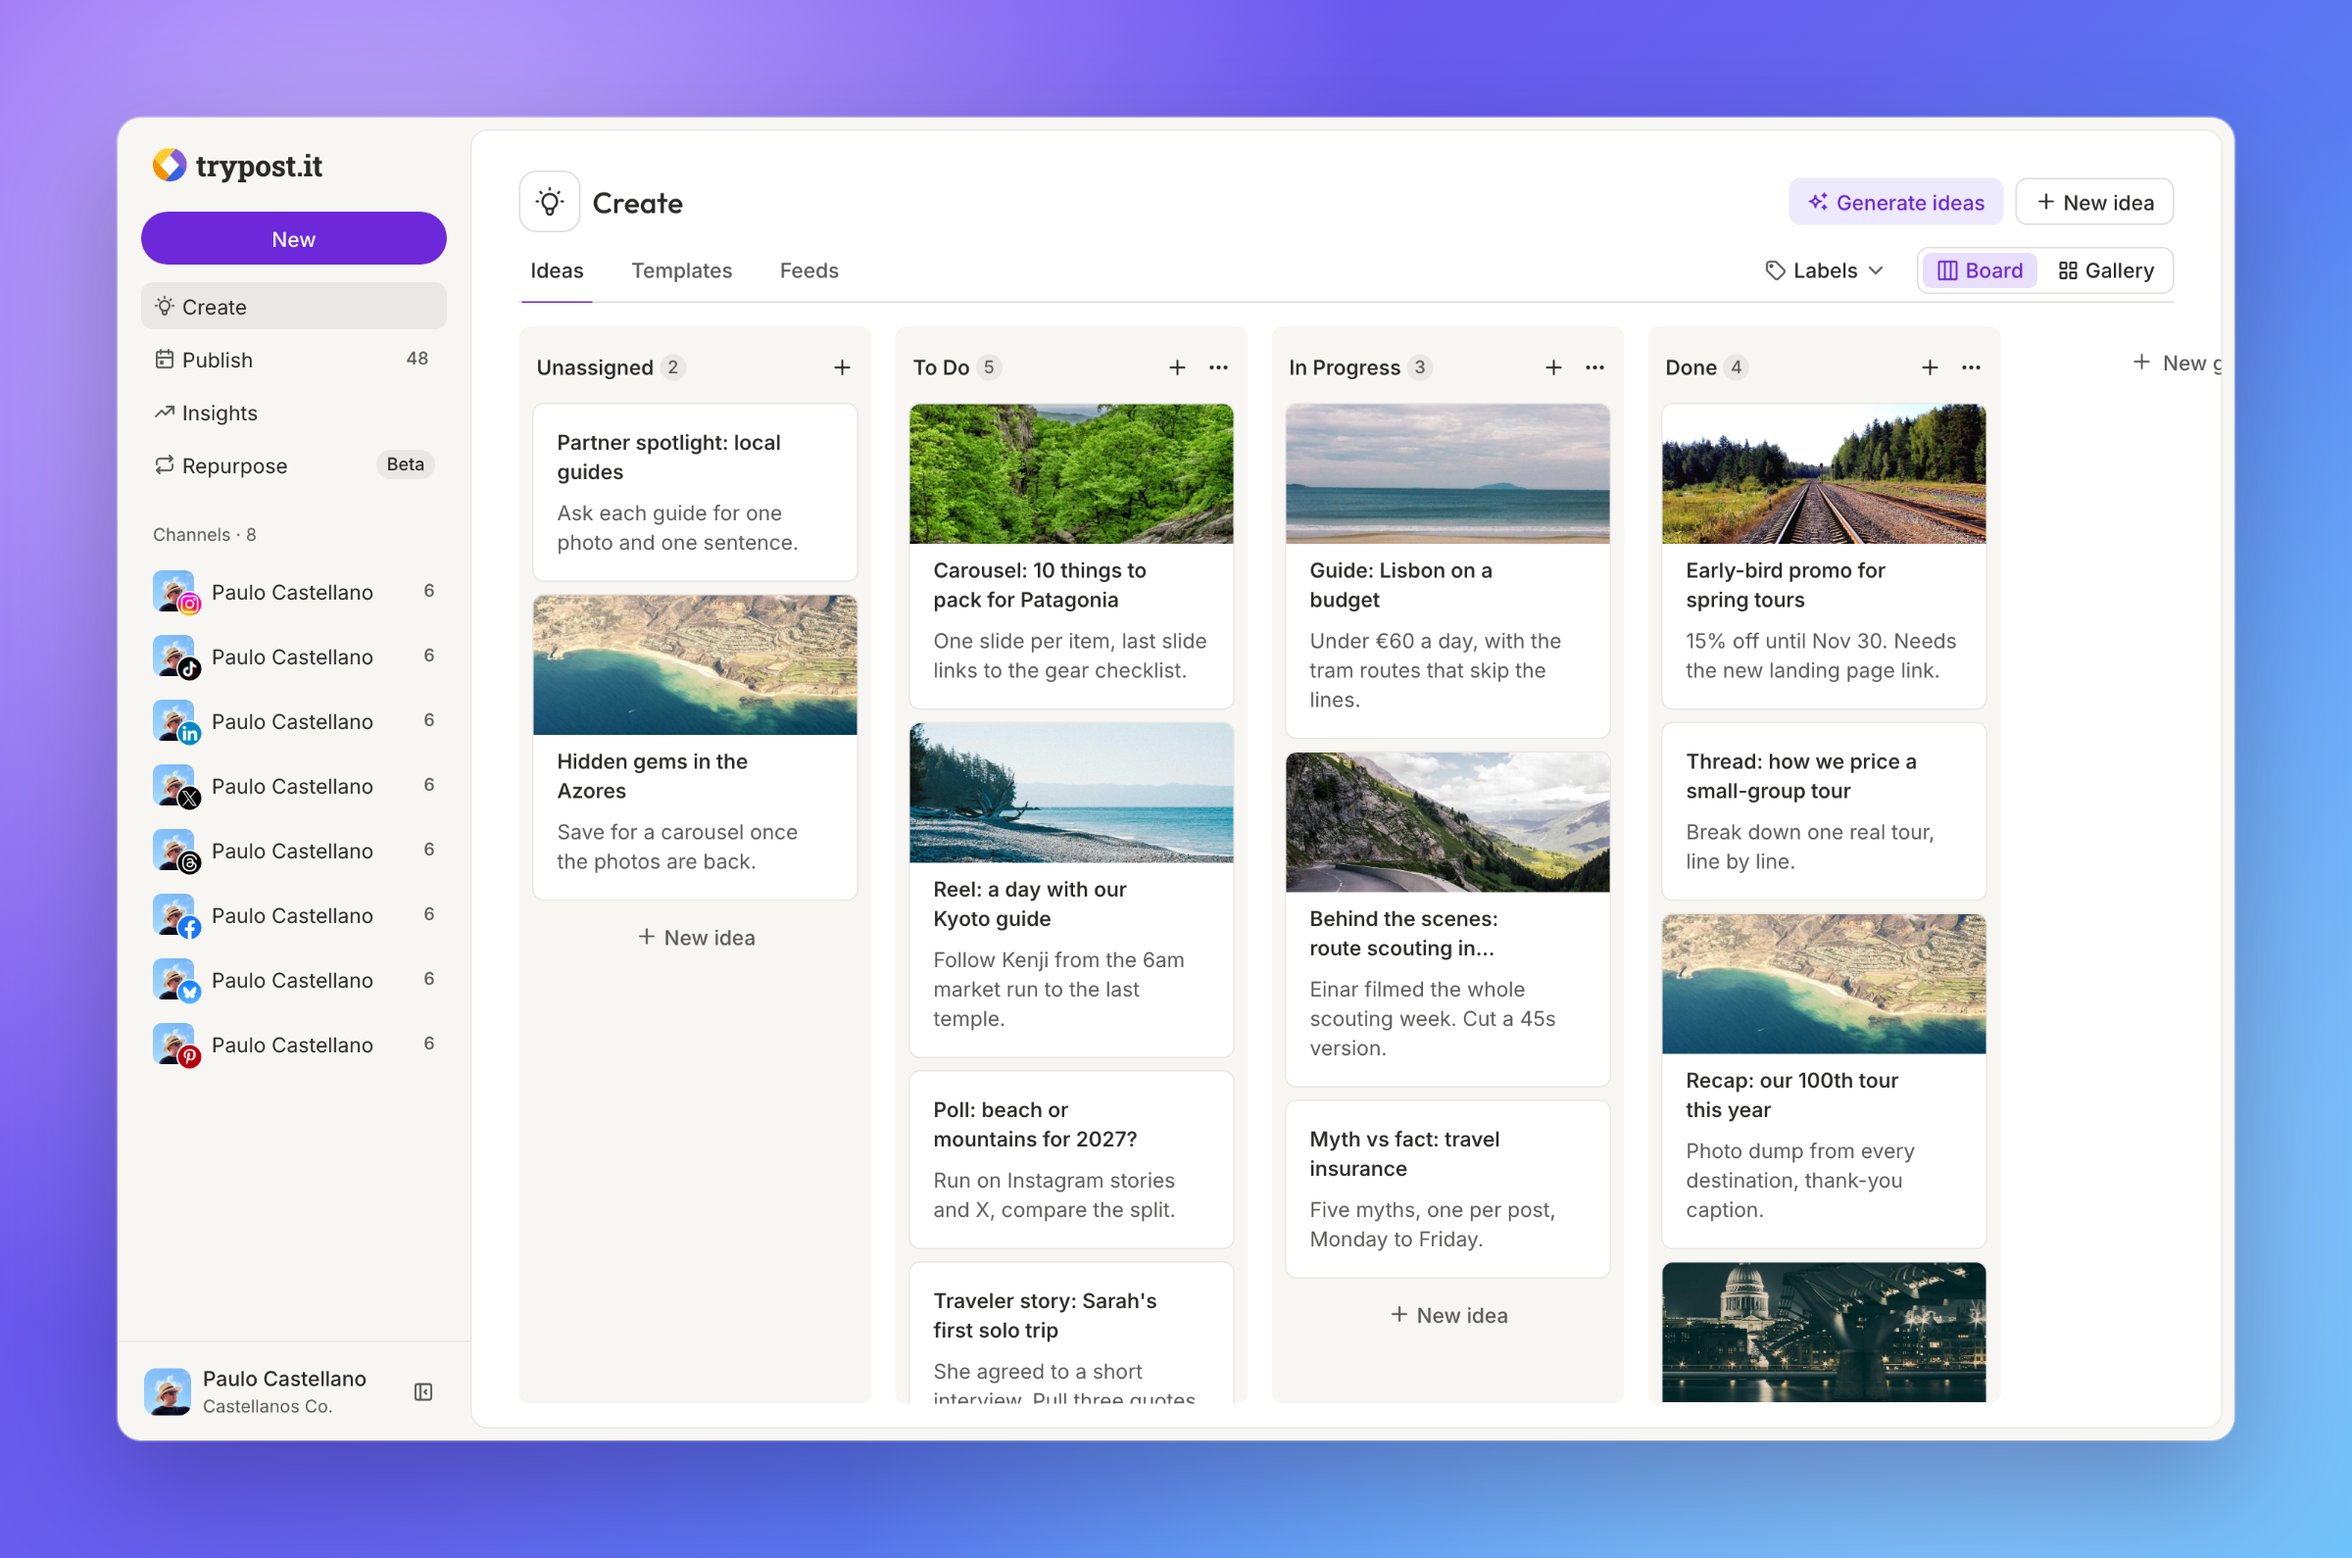
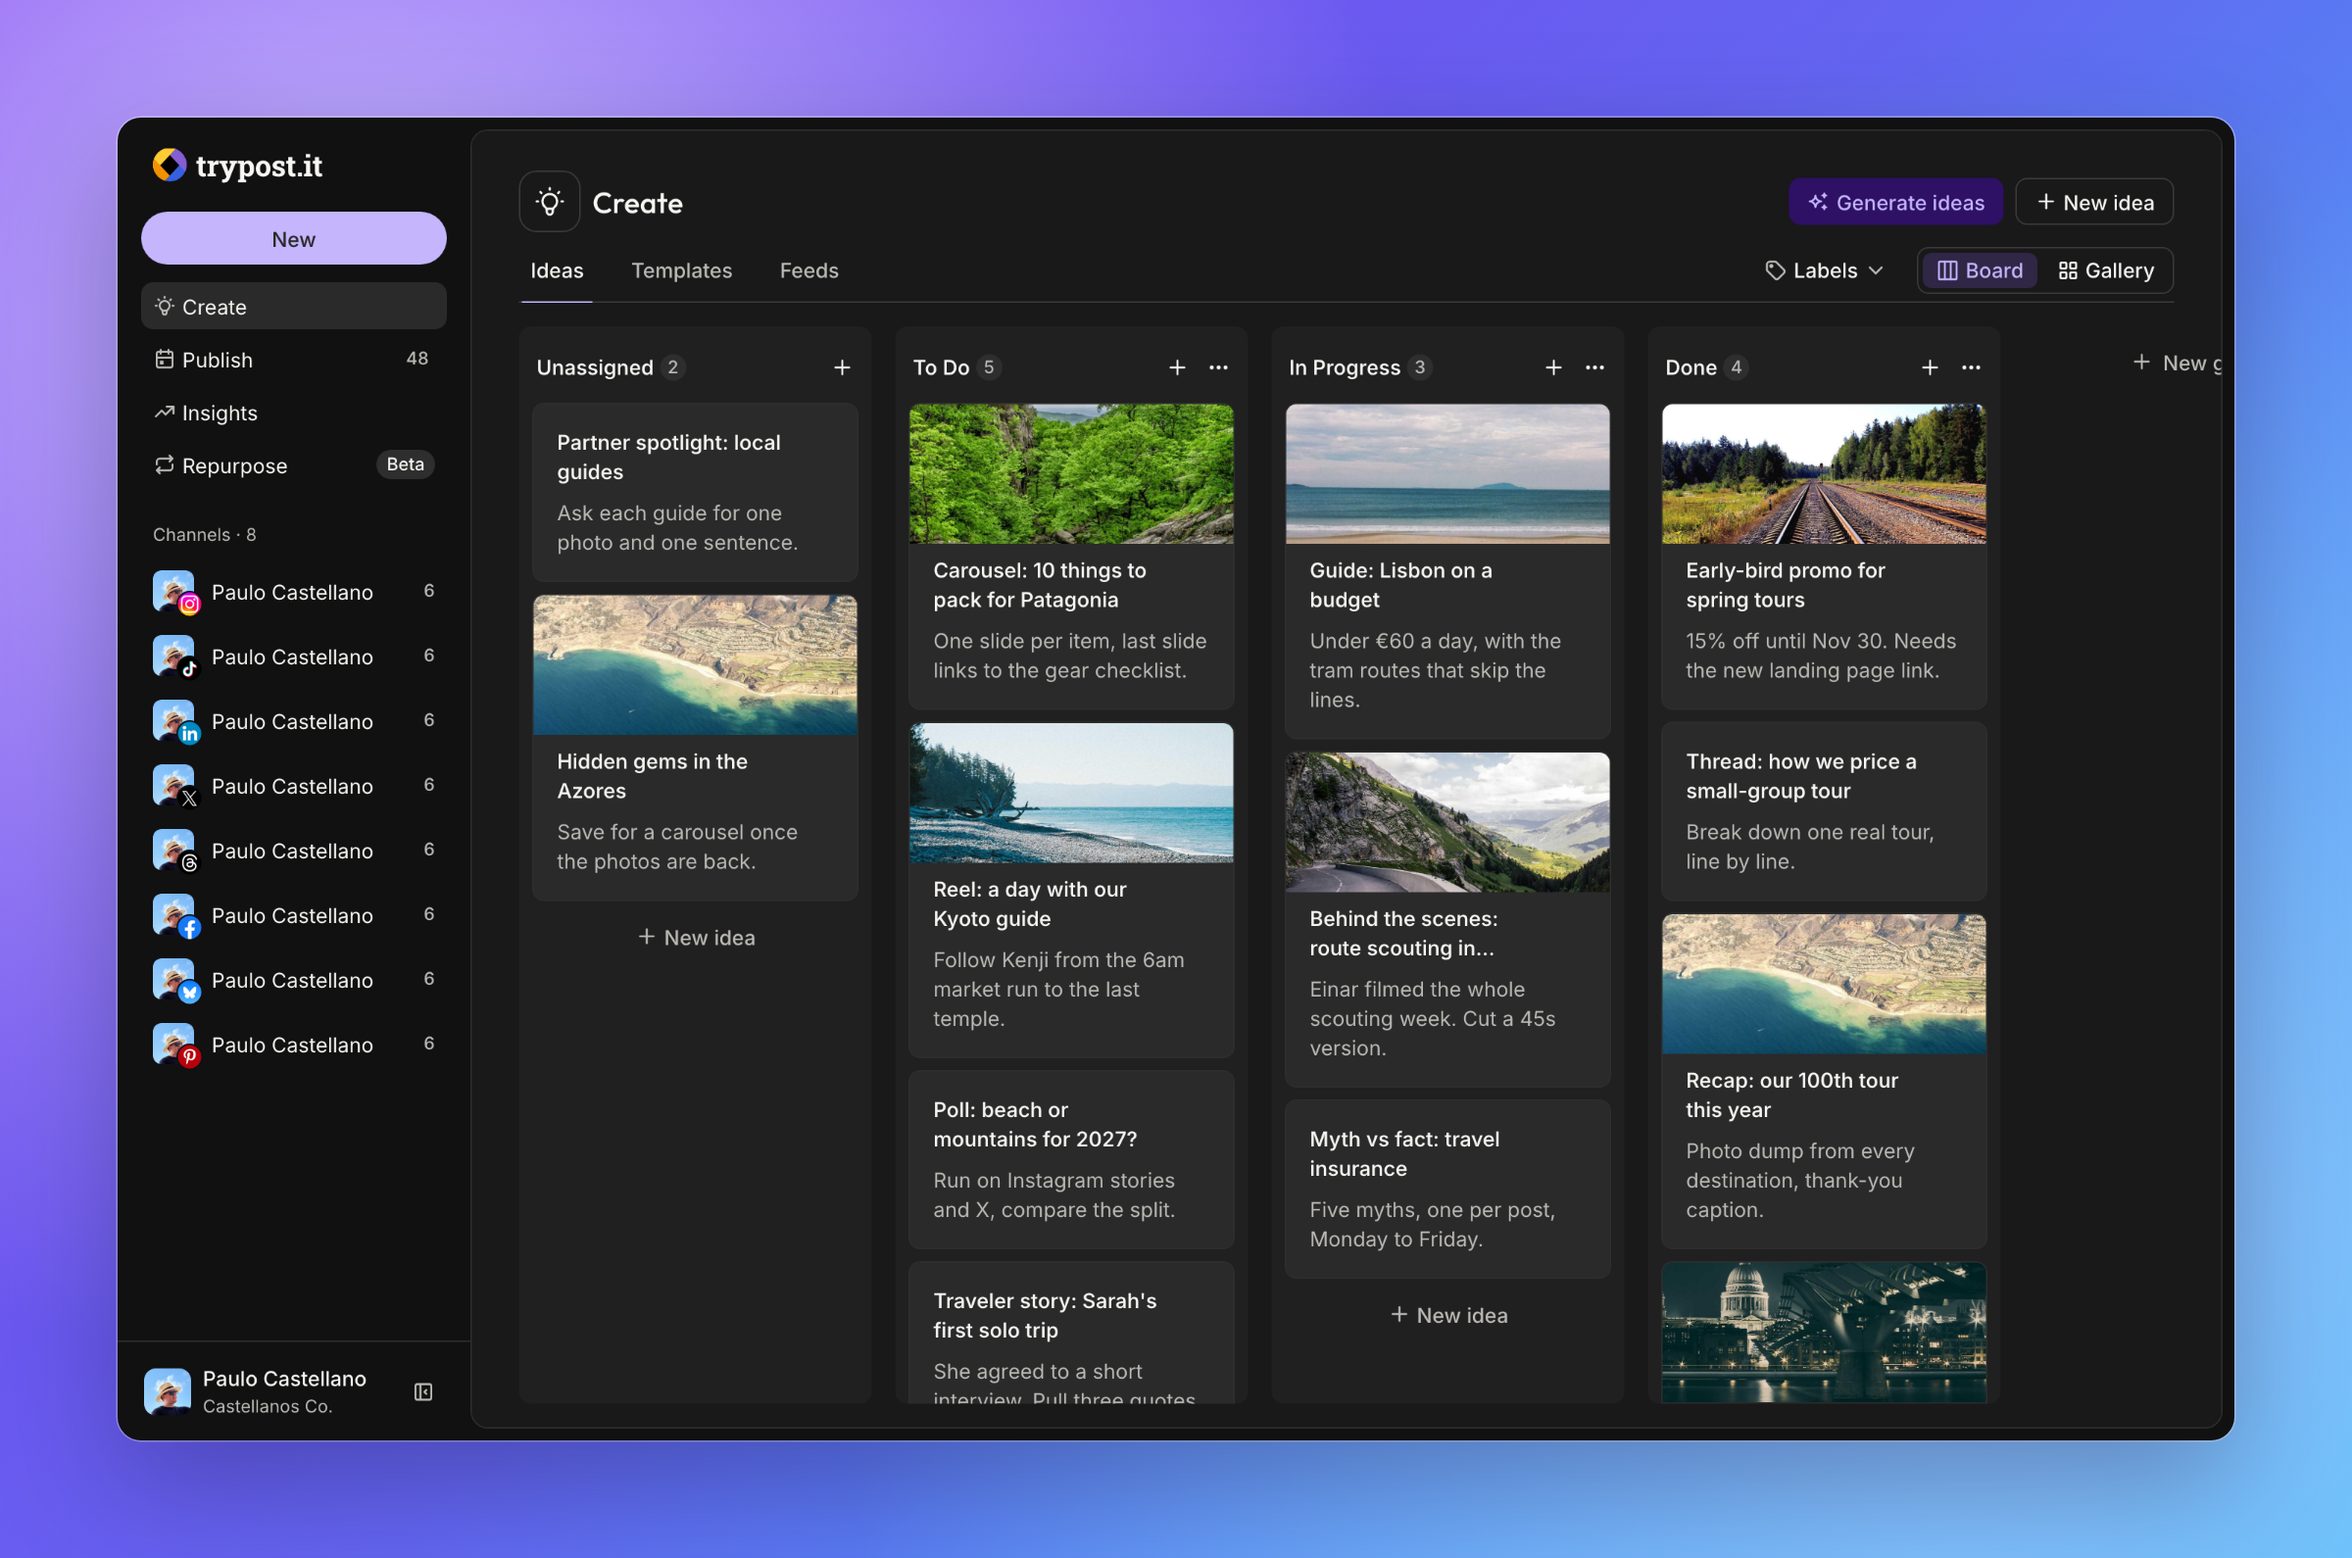
Show the ideas board in dark mode

diff --git a/README.md b/README.md
@@ -58,8 +58,8 @@ Connect Claude, ChatGPT, Cursor or any MCP client and ask in plain words:
 </p>
 
 <p align="center">
-  <img src="public/images/github/ideas.png" alt="Ideas board with cards in To Do, In Progress and Done" width="100%">
-  <br/><sub><b>Ideas board.</b> Collect ideas, move them through your stages and turn them into posts.</sub>
+  <img src="public/images/github/ideas.png" alt="Ideas board in dark mode with cards in To Do, In Progress and Done" width="100%">
+  <br/><sub><b>Ideas board, in dark mode.</b> Collect ideas, move them through your stages and turn them into posts.</sub>
 </p>
 
 <p align="center">
